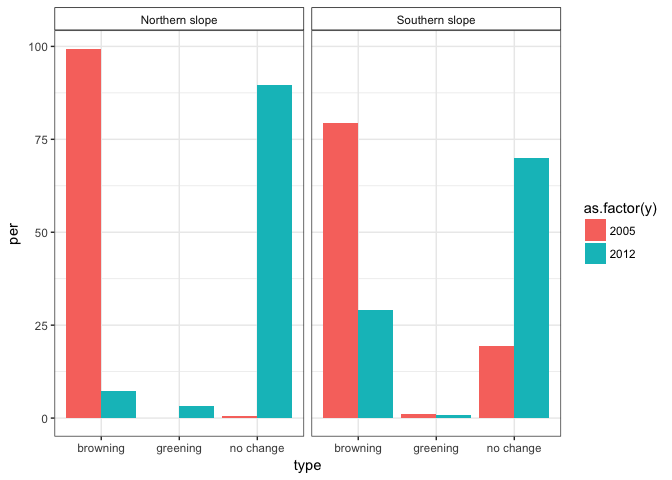
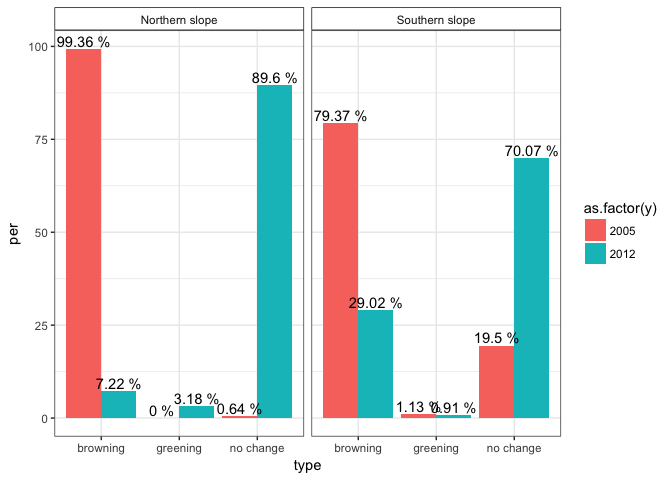
add percentage to plot

diff --git a/analysis/evi/explore_anomalies.md b/analysis/evi/explore_anomalies.md
@@ -1590,12 +1590,16 @@ write.csv(per_sa, file=paste0(di, '/out/anomalies/evi/percen_browing_greening.cs
 per_sa <- per_sa %>% add_row(clu_pop2 = 'Northern slope',
                              type = 'greening',
                              count_clu = 0, per = 0.00, y = 2005)
-
+library(scales)
 
 per_pixels_green <- per_sa %>% 
-  ggplot(aes(x=type, y=per, fill=as.factor(y))) + geom_bar(stat='identity', position = "dodge") + facet_wrap(~clu_pop2) + 
+  ggplot(aes(x=type, y=per, fill=as.factor(y))) + 
+  geom_bar(stat='identity', position = "dodge") + 
+  geom_text(aes(label = paste0(per, " %")), position=position_dodge(width=0.9), vjust=-0.25) + 
+  facet_wrap(~clu_pop2) + 
   theme_bw() + 
   theme(strip.background = element_rect(colour = "black", fill = "white"))
+
 
 
 per_pixels_green 
